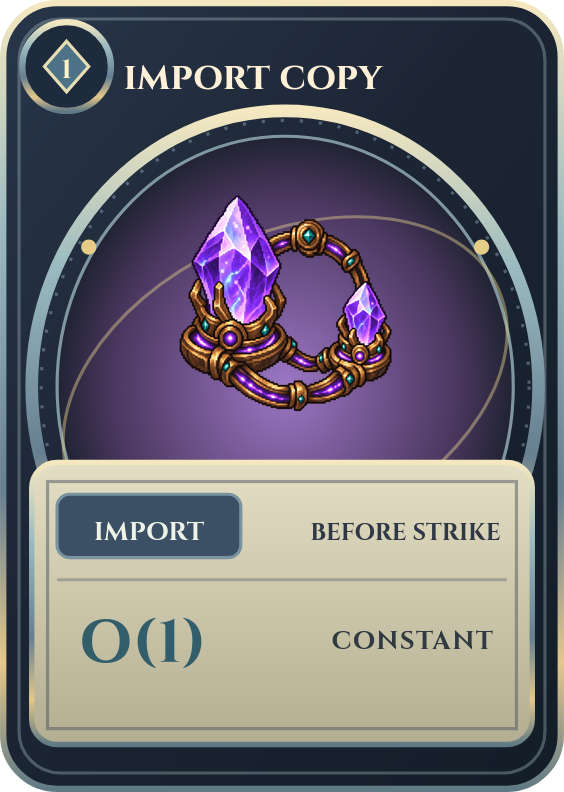
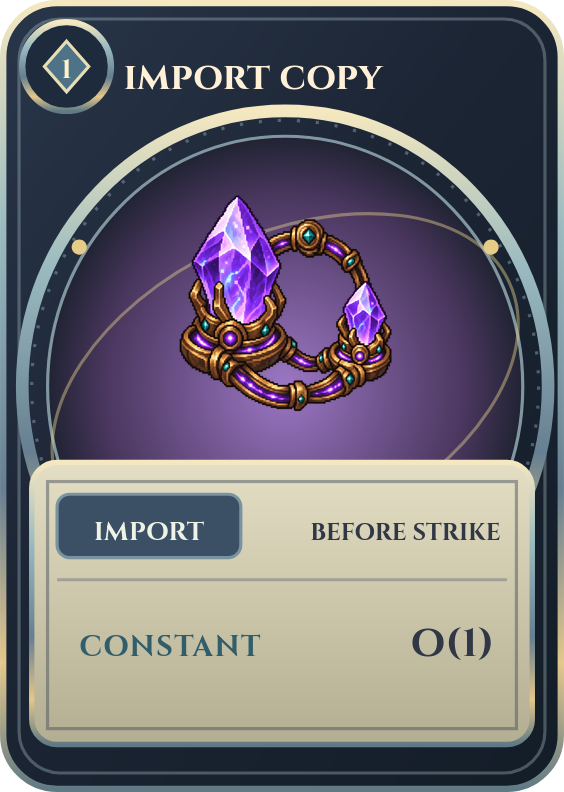
docs(cards): widen oval and refine labels

diff --git a/Concept/v0.2/cards/README.md b/Concept/v0.2/cards/README.md
@@ -1,6 +1,6 @@
 # Hand-card concepts · v0.2
 
-Four portrait treatments of the same `import copy` card explore a Hearthstone-like collectible frame with a little of Slay the Spire's worn paper and restrained ink. The cost gem and title share one header row. Each concept uses Cinzel, a compact rules plaque, and an oversized oval shard frame; the illustration is fully contained, not clipped by the frame.
+Four portrait treatments of the same `import copy` card explore a Hearthstone-like collectible frame with a little of Slay the Spire's worn paper and restrained ink. The cost gem and title share one header row. Each concept uses Cinzel, a compact rules plaque, and an oversized oval shard frame; the illustration is fully contained, not clipped by the frame. **Rootglass Halo is the current lead**, with its branching paradigm crest in the upper-right corner.
 
 | Design | Size | Frame treatment |
 |---|---:|---|
@@ -9,6 +9,6 @@ Four portrait treatments of the same `import copy` card explore a Hearthstone-li
 | [Velvet Oracle](03-velvet-oracle.svg) · [preview](03-velvet-oracle-preview.png) | 192 × 270 | Jewel portrait, grimoire seal, and a small branching crest |
 | [Rootglass Halo](04-rootglass-halo.svg) · [preview](04-rootglass-halo-preview.png) | 190 × 266 | Segmented halo, quiet branching engravings, and a branching crest |
 
-The first two concepts try paradigm color as a soft violet portrait well; the last two use a compact branching crest in the upper-right corner. The crest silhouette can also use pewter for neutral cards, with a simple neutral mark. The shard remains 76 × 76 in the same position. Its 160 × 174 oval frame reaches close to the title and side borders; the textbox masks the lower 33% of its area. The panel keeps only the role, timing, and complexity cues: `IMPORT`, `BEFORE STRIKE`, `O(1)`, and `CONSTANT`. The card does not explain its effect, leaving the code as the place to learn what it does.
+The first two concepts try paradigm color as a soft violet portrait well; the last two use a compact branching crest in the upper-right corner. The crest silhouette can also use pewter for neutral cards, with a simple neutral mark. The shard remains 76 × 76 in the same position. Its 166 × 174 oval frame reaches very close to the title and side borders; the textbox masks the lower 33% of its area. The panel keeps only the role, timing, and complexity cues: `IMPORT`, `BEFORE STRIKE`, `CONSTANT`, and `O(1)`. The colored `CONSTANT` label sits on the left, with smaller neutral `O(1)` on the right. The card does not explain its effect, leaving the code as the place to learn what it does.
 
 These concepts use the existing pixel art at `game/assets/shardrun/card-import-copy.png`. The current hand card is 164 × 227; these are about 15–17% wider and 16–19% taller. [The hand study](hand-hover-study.svg) shows the proposed resting crop with about 35 px hidden below the viewport and a fully raised, 16% enlarged hover card. No live UI or production art is changed here.
